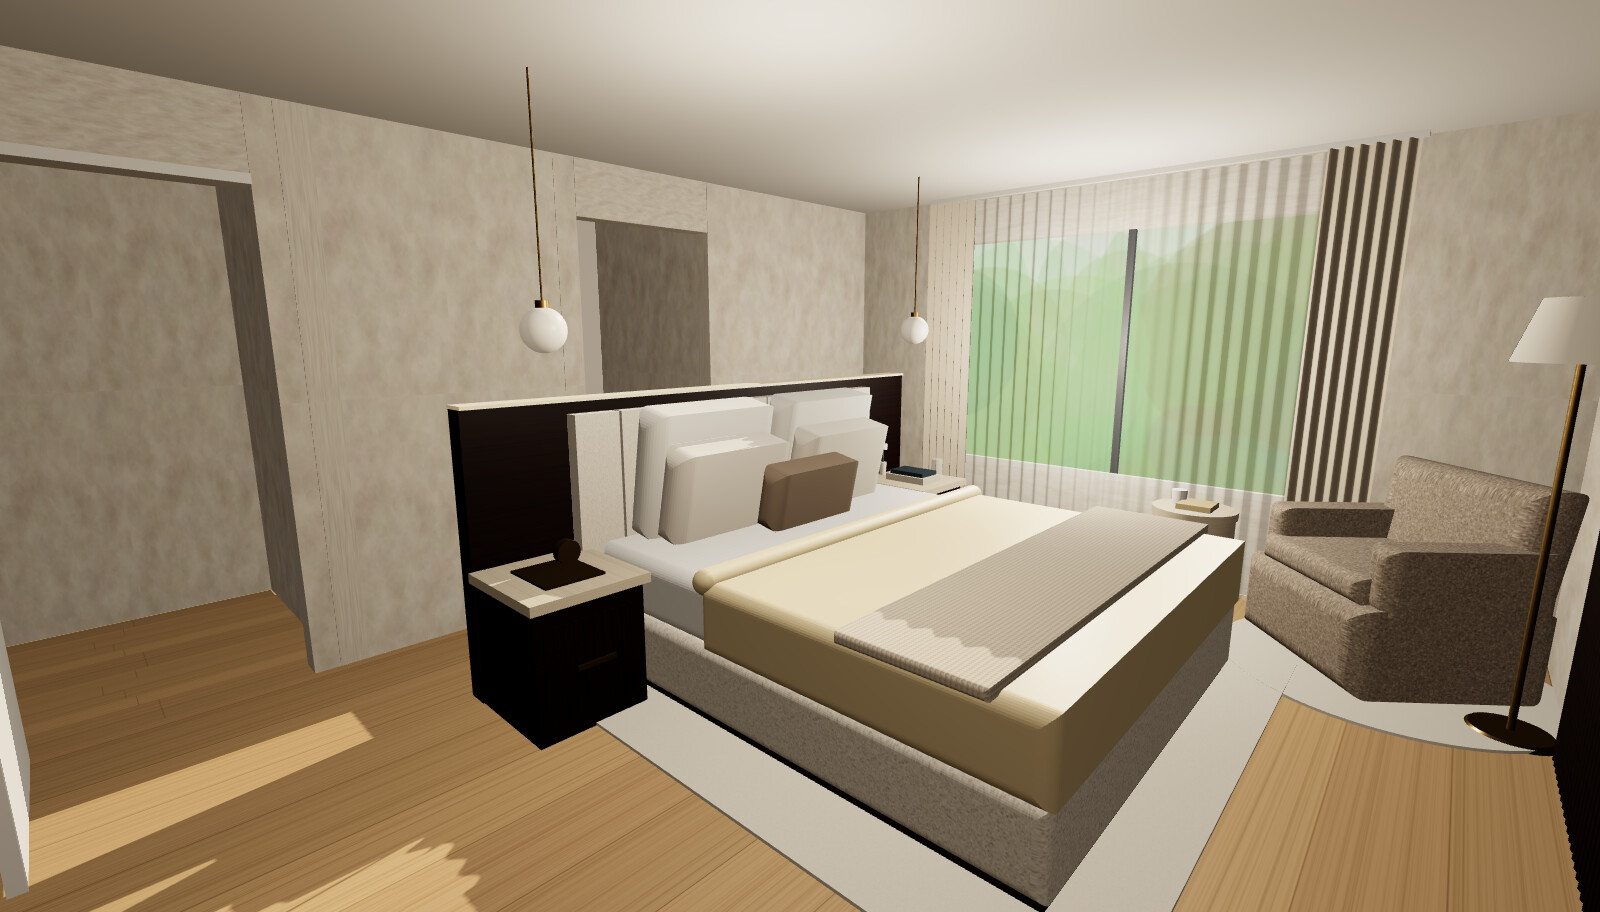
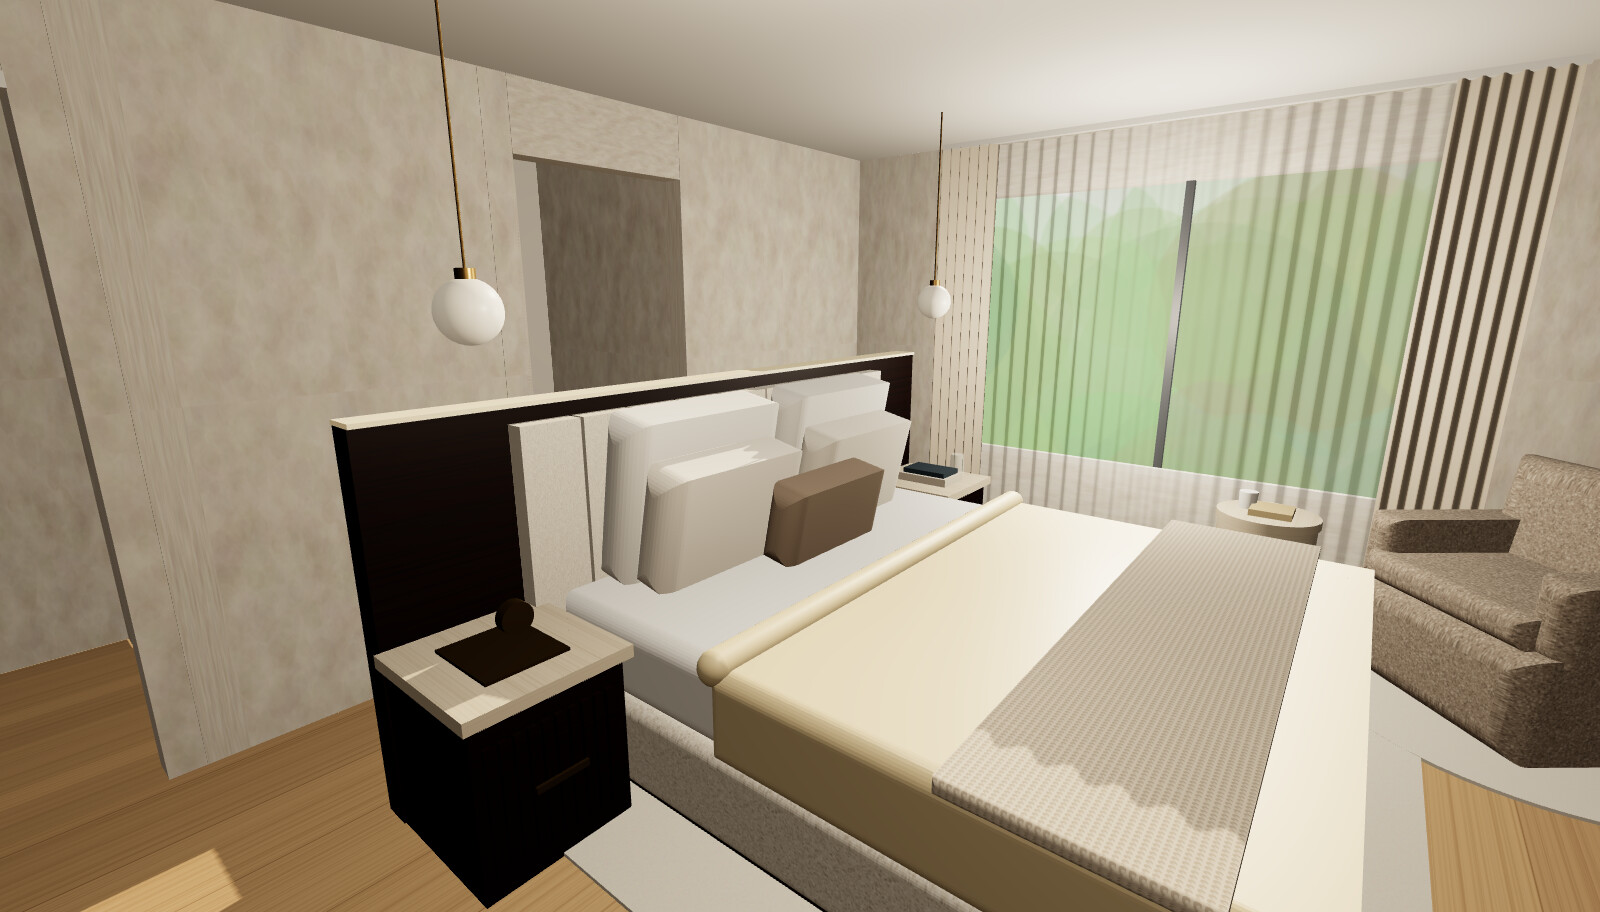
Add north wall storage and full-length mirror dressing zone
Two tall fluted walnut cabinets and a 1.7m drawer unit on the north
wall, a 0.9m x 2.0m brass-framed mirror on the west wall, new
dressing view render and Gemini prompt.

Claude-Session: https://claude.ai/code/session_01P4LkCESWoGV8P5QgBbWSmy

diff --git a/renders/bedroom-1-3d.html b/renders/bedroom-1-3d.html
@@ -161,6 +161,32 @@ box(1.33,1.5,0.54,0.57,4.48,4.66,mat('#c9b48e',0.8)); cyl(1.52,0.58,4.62,0.04,0.
 cyl(0.15,0.75,3.95,0.012,0.012,1.5,brass,8); cyl(0.15,0.01,3.95,0.12,0.14,0.02,brass);
 cyl(0.15,1.5,3.95,0.12,0.18,0.22,mat('#f3ecdf',0.9,0,{side:THREE.DoubleSide}),32);
 
+// ---------- Dressing zone: north wall storage + full-length mirror on west wall ----------
+// North wall joinery, 0.45m deep, x 0-2.9 (stops clear of the open door leaf at x 3.1)
+function fluteFront(x0,x1,y0,y1,zFace){ for(let x=x0+0.02;x<x1-0.02;x+=0.045){ const f=cyl(x+0.02,(y0+y1)/2,zFace+0.012,0.018,0.018,y1-y0,walnut,10); } }
+// tall cabinets (floor to ceiling) at each end, fluted doors
+for(const [x0,x1] of [[0,0.6],[2.3,2.9]]){
+  box(x0,x1,0,CH,0,0.45,walnut);
+  fluteFront(x0,x1,0.06,CH-0.04,0.45);
+  box((x0+x1)/2-0.006,(x0+x1)/2+0.006,0.06,CH-0.04,0.45,0.475,mat('#2e1d12',0.7),false); // door split
+  box(x0===0? x1-0.06:x0+0.04, x0===0? x1-0.04:x0+0.06, 0.9,1.3,0.475,0.49,brass);       // long brass pull
+}
+// low drawer unit / dressing bench between them
+box(0.6,2.3,0.1,0.8,0,0.45,walnut);
+box(0.62,2.28,0,0.1,0.02,0.4,mat('#2e1d12',0.7),false);                                // recessed plinth
+for(let r=0;r<2;r++) for(let c=0;c<2;c++){ const x0=0.62+c*0.84, y0=0.12+r*0.34;
+  box(x0,x0+0.82,y0,y0+0.32,0.45,0.455,walnut); box(x0+0.33,x0+0.49,y0+0.25,y0+0.27,0.455,0.47,brass); }
+box(0.6,2.3,0.8,0.83,0,0.47,travertine);
+// styling on drawer unit
+box(0.85,1.15,0.83,0.845,0.15,0.35,brass); cyl(0.93,0.9,0.25,0.03,0.03,0.12,mat('#e9efe9',0.1,0,{transparent:true,opacity:0.6})); cyl(1.05,0.88,0.24,0.025,0.025,0.09,mat('#d8c9a6',0.3,0.3));
+cyl(1.95,0.95,0.22,0.07,0.05,0.24,mat('#efe9df',0.5)); cyl(1.95,1.15,0.22,0.003,0.003,0.2,mat('#6b7f58',0.8),6);
+box(1.45,1.75,0.83,0.89,0.12,0.34,mat('#d9cfc0',0.8));
+// full-length mirror on west wall, north end: 0.9m wide x 2.0m high, slim brass frame
+box(0,0.035,0.15,2.15,0.55,1.45,brass);
+const cubeRT=new THREE.WebGLCubeRenderTarget(512); const cubeCam=new THREE.CubeCamera(0.05,20,cubeRT);
+const mirrorM=mat('#ffffff',0.02,1.0,{envMap:cubeRT.texture});
+const mirror=box(0.035,0.045,0.17,2.13,0.57,1.43,mirrorM,false,false);
+
 // ---------- Lighting: morning sun through south window ----------
 scene.add(new THREE.HemisphereLight('#fff8ee','#a08a70',0.55));
 const sun=new THREE.DirectionalLight('#ffe9c7',3.2);
@@ -172,11 +198,13 @@ const win=new THREE.PointLight('#fff4e2',4,9,1.6); win.position.set(2,1.4,RL-0.6
 const fill=new THREE.PointLight('#fff1dc',1.8,10,1.6); fill.position.set(2.0,1.7,2.0); scene.add(fill);
 const fill2=new THREE.PointLight('#ffe9cc',1.2,8,1.8); fill2.position.set(0.8,2.1,1.0); scene.add(fill2);
 
+mirror.visible=false; cubeCam.position.set(1.6,1.3,1.0); scene.add(cubeCam); cubeCam.update(renderer,scene); mirror.visible=true;
 // ---------- Camera ----------
 const cam=new THREE.PerspectiveCamera(60,W/H,0.05,50);
-if(VIEW==='corner'){ cam.position.set(2.75,1.6,0.22); cam.fov=68; cam.updateProjectionMatrix(); cam.lookAt(0.9,0.85,4.1); }
+if(VIEW==='corner'){ cam.position.set(3.0,1.6,0.6); cam.fov=68; cam.updateProjectionMatrix(); cam.lookAt(0.9,0.85,4.1); }
 else if(VIEW==='tv'){ cam.position.set(3.75,1.45,2.85); cam.fov=66; cam.updateProjectionMatrix(); cam.lookAt(0,1.0,2.85); }
-else if(VIEW==='bed'){ cam.position.set(0.45,1.5,0.35); cam.fov=66; cam.updateProjectionMatrix(); cam.lookAt(3.3,0.75,3.4); }
+else if(VIEW==='bed'){ cam.position.set(1.15,1.55,0.75); cam.fov=66; cam.updateProjectionMatrix(); cam.lookAt(3.3,0.75,3.4); }
+else if(VIEW==='dressing'){ cam.position.set(2.5,1.55,4.55); cam.fov=68; cam.updateProjectionMatrix(); cam.lookAt(0.7,1.0,0.4); }
 renderer.render(scene,cam);
 document.title='done';
 </script>

diff --git a/gemini/README.md b/gemini/README.md
@@ -14,7 +14,8 @@ For each view:
 | View | Reference image | Prompt |
 |---|---|---|
 | Bed / headboard | `view-1-bed-reference.jpg` | `view-1-bed-prompt.txt` |
-| Window + TV wall | `view-2-corner-reference.jpg` | `view-2-corner-prompt.txt` |
+| Window + feature wall + mirror | `view-2-corner-reference.jpg` | `view-2-corner-prompt.txt` |
+| Dressing zone + storage | `view-3-dressing-reference.jpg` | `view-3-dressing-prompt.txt` |
 
 Optional: also attach `../plans/bedroom-1-layout.png` as a second image and add
 "The second image is the floor plan for reference."
